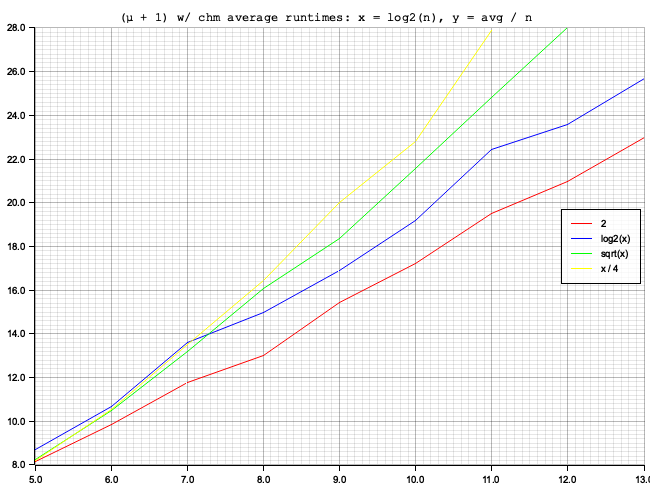
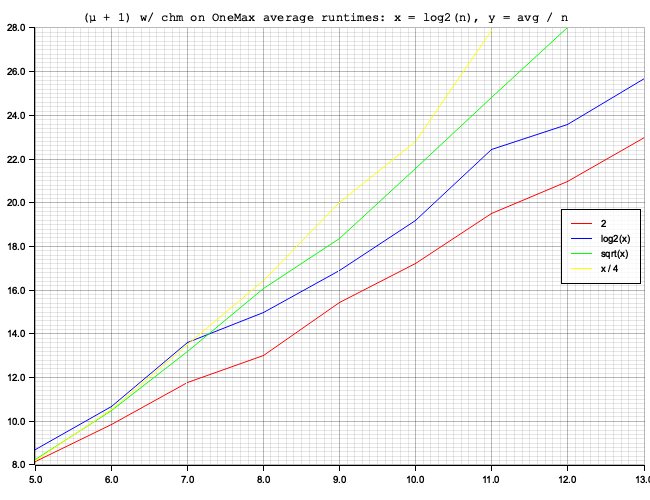
:alembic: average runtimes

Changed region(s): [[0.1846, 0.03, 0.8308, 0.06], [0.1231, 0.03, 0.1538, 0.06]]

diff --git a/src/experiments/runtime.rs b/src/experiments/runtime.rs
@@ -51,7 +51,7 @@ pub async fn runtime_experiment() {
         }
     }
 
-    let average_results = vec![
+    let mu_average_results = vec![
         (
             "2",
             vec![
@@ -107,13 +107,13 @@ pub async fn runtime_experiment() {
         ),
     ];
 
-    let y_min = average_results
+    let y_min = mu_average_results
         .iter()
         .map(|(_, vs)| vs.iter().map(|(_, x)| *x as u32).min().unwrap())
         .min()
         .unwrap();
 
-    let y_max = average_results
+    let y_max = mu_average_results
         .iter()
         .map(|(_, vs)| vs.iter().map(|(_, x)| *x as u32).max().unwrap())
         .max()
@@ -121,10 +121,75 @@ pub async fn runtime_experiment() {
 
     save_plot(
         "plots/runtime-one-max.png".to_owned(),
-        average_results,
+        mu_average_results,
         5.0..13.0,
         y_min as f64..y_max as f64,
-        "(μ + 1) w/ chm average runtimes: x = log2(n), y = avg / n",
+        "(μ + 1) w/ chm on OneMax average runtimes: x = log2(n), y = avg / n",
+        650,
+        500,
+    )
+    .unwrap();
+
+    let lo_average_results = vec![
+        (
+            "2",
+            vec![
+                (5.0, 887.171875 / 32.0),
+                (6.0, 3491.2890625 / 64.0),
+                (7.0, 13709.3671875 / 128.0),
+                (8.0, 56812.609375 / 256.0),
+                (9.0, 227244.953125 / 512.0),
+            ],
+        ),
+        (
+            "log2(x)",
+            vec![
+                (5.0, 991.6953125 / 32.0),
+                (6.0, 3728.9765625 / 64.0),
+                (7.0, 14999.75 / 128.0),
+                (8.0, 58397.75 / 256.0),
+                (9.0, 230779.1015625 / 512.0),
+            ],
+        ),
+        (
+            "sqrt(x)",
+            vec![
+                (5.0, 962.5625 / 32.0),
+                (6.0, 3969.7421875 / 64.0),
+                (7.0, 16289.7109375 / 128.0),
+                (8.0, 63167.9296875 / 256.0),
+                (9.0, 244931.359375 / 512.0),
+            ],
+        ),
+        (
+            "x / 4",
+            vec![
+                (5.0, 1062.4765625 / 32.0),
+                (6.0, 4810.8671875 / 64.0),
+                (7.0, 20875.0859375 / 128.0),
+                (8.0, 90339.9453125 / 256.0),
+            ],
+        ),
+    ];
+
+    let y_min = lo_average_results
+        .iter()
+        .map(|(_, vs)| vs.iter().map(|(_, x)| *x as u32).min().unwrap())
+        .min()
+        .unwrap();
+
+    let y_max = lo_average_results
+        .iter()
+        .map(|(_, vs)| vs.iter().map(|(_, x)| *x as u32).max().unwrap())
+        .max()
+        .unwrap();
+
+    save_plot(
+        "plots/runtime-leading-ones.png".to_owned(),
+        lo_average_results,
+        5.0..9.0,
+        y_min as f64..y_max as f64,
+        "(μ + 1) w/ chm on LeadingOnes average runtimes: x = log2(n), y = avg / n",
         650,
         500,
     )
